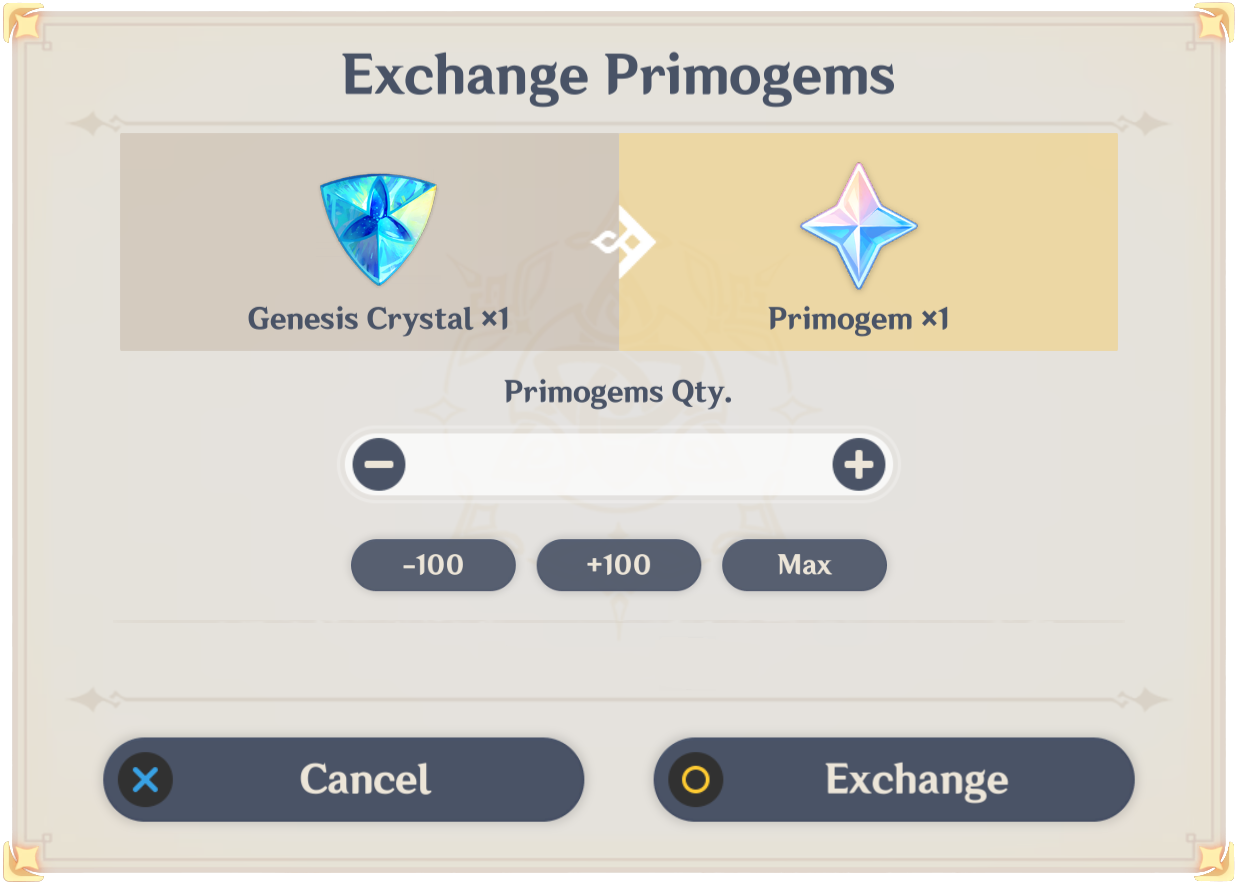
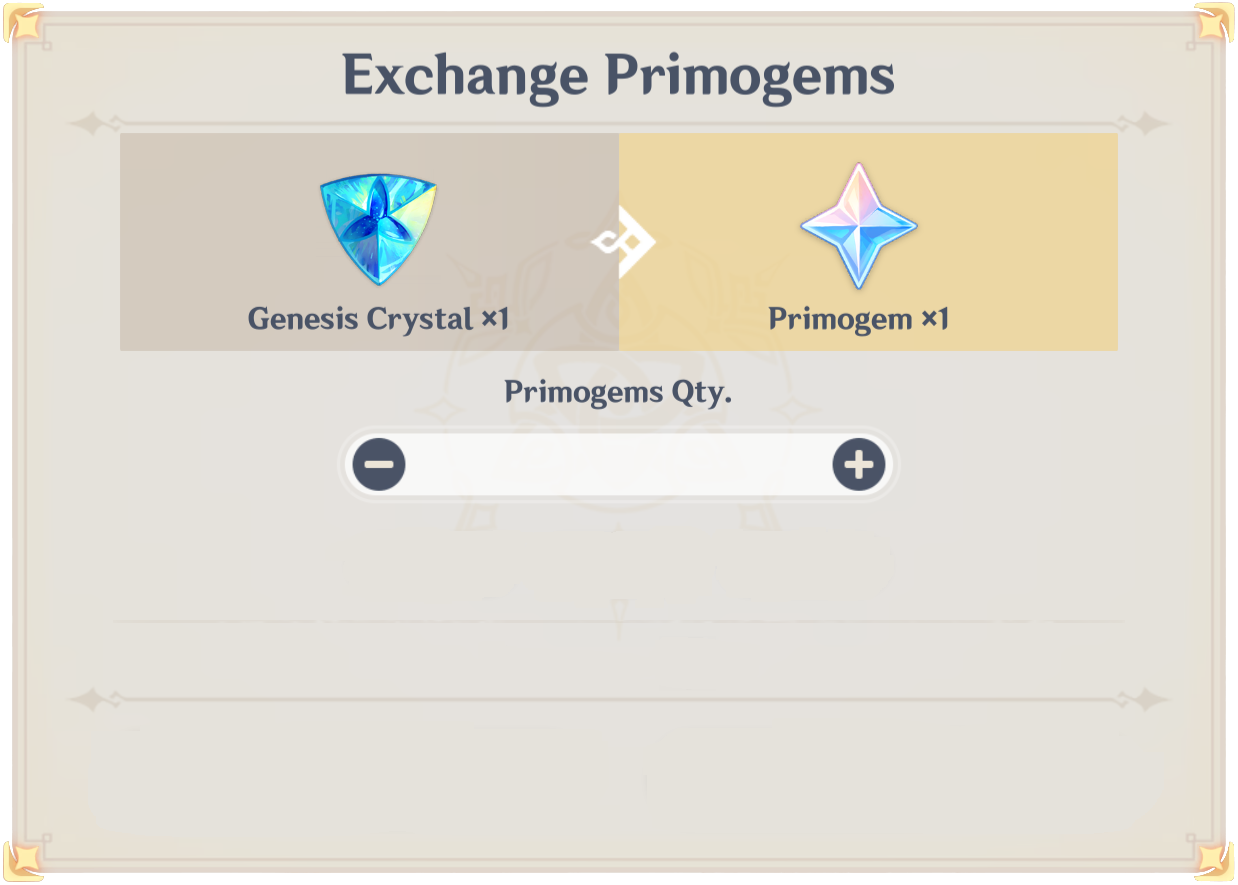
finished add primogem menu... pretty much perfect

Changed region(s): [[0.5218, 0.8237, 0.9208, 0.9458], [0.0614, 0.8237, 0.4911, 0.9458], [0.2763, 0.6102, 0.7367, 0.6712]]

diff --git a/client/src/components/GenshinImpact/GenshinImpact.css b/client/src/components/GenshinImpact/GenshinImpact.css
@@ -1,4 +1,4 @@
-#genshin-wish-page img {
+.gacha-area {
     user-select: none;
 }
 #genshin-wish-page .gacha-area {
@@ -199,6 +199,9 @@
     #fate-count-container {
         margin-left: 0;
     }
+    #genesis-crystal-count-container {
+        margin-left: 0;
+    }
 }
 
 #skip-wish-animation-button {
@@ -212,7 +215,6 @@
     display: flex;
     justify-content: center;
     align-items: center;
-    user-select: none;
     opacity: 1;
     transition: color 0.2s, filter 0.1s, visibility 0s, opacity 0.2s linear;
 }
@@ -287,11 +289,6 @@
         font-size: 4.1vw;
     }
 }
-@media screen and (max-width: 1300px) {
-    .add-primogem-image {
-        width: 95vw !important;
-    }
-}
 #add-primogem-header {
     z-index: 1;
     position: absolute;
@@ -311,13 +308,174 @@
     position: absolute;
     width: 39%;
     height: 9.7%;
-    background: rgba(255, 0, 0, 0.5);
+    display: flex;
+    align-items: center;
+    justify-content: center;
+    color: #ECE5D8;
+    font-size: 36px;
+    padding-left: 3.5%;
+    background-color: #4A5366;
 }
 #add-primogem-cancel-button {
-    bottom: 7%;
-    left: 8.2%;
+    bottom: 7.1%;
+    left: 8.3%;
 }
 #add-primogem-exchange-button {
     bottom: 7%;
-    right: 8.2%;
+    right: 8.3%;
+}
+#cancel-icon, #confirm-icon {
+    position: absolute;
+    left: 2.8%;
+    height: 70%;
+    top: 50%;
+    transform: translateY(-50%);
+}
+#primogem-quantity {
+    position: absolute;
+    top: 49.8%;
+    width: 30%;
+    text-align: center;
+    color: #474F62;
+    font-size: 39px;
+    left: 0;
+    right: 0;
+    margin: auto
+}
+#primogem-quantity::-webkit-outer-spin-button, #primogem-quantity::-webkit-inner-spin-button {
+    -webkit-appearance: none;
+    margin: 0;
+}
+#primogem-quantity {
+    -moz-appearance: textfield;
+}
+#primogem-quantity::placeholder { /* Chrome, Firefox, Opera, Safari 10.1+ */
+    color: #474F62;
+    opacity: 1; /* Firefox */
+}
+  
+#primogem-quantity:-ms-input-placeholder { /* Internet Explorer 10-11 */
+    color: #474F62;
+}
+  
+#primogem-quantity::-ms-input-placeholder { /* Microsoft Edge */
+    color: #474F62;
+}
+#increment-primogem-quantity, #decrement-primogem-quantity {
+    border-radius: 100px;
+    position: absolute;
+    height: 7%;
+    width: 5.2%;
+    top: 49%;
+    transition: 0.2s;
+}
+#increment-primogem-quantity:active, #decrement-primogem-quantity:active, .unclickable-1 {
+    background: rgba(255, 255, 255, 0.521);
+}
+.flash-button {
+    filter: drop-shadow(0px 2px 3px #4a536683);
+    transition: color 0.2s, background 0.2s;
+}
+.flash-button:active {
+    background: #E5E2DB !important;
+    -webkit-animation: 0.15s linear flash;
+    -moz-animation: 0.15s linear flash;
+    -ms-animation: 0.15s linear flash;
+    -o-animation: 0.15s linear flash;
+    animation: 0.15s linear flash;
+}
+.flash-button:after {
+    content: '';
+    position: absolute;
+    border-radius: 100px;
+    top: -2px;
+    left: -2px;
+    right: -2px;
+    bottom: -2px;
+}
+.flash-button:active {
+    filter: drop-shadow(0px 0px 5px #FFECCA);
+}
+#add-primogem-cancel-button:active, #add-primogem-exchange-button:active {
+    color: #4A5366 !important;
+    border: 2px solid #4A5366 !important;
+}
+#add-primogem-cancel-button:active:after, #add-primogem-exchange-button:active:after {
+    background: #ffe5914b !important;
+}
+#minus-100:active, #plus-100:active, #max:active {
+    color: white;
+    border: 2px solid #4a536652 !important;
+}
+#minus-100:active, #plus-100:active, #max:active {
+    background: #E4D0AF !important;
+}
+
+@keyframes flash {
+    0% {
+        color: #4A5366 !important;
+        filter: drop-shadow(0px 2px 3px #4a536683) brightness(180%);
+    }
+}
+
+#decrement-primogem-quantity {
+    left: 28%;
+}
+#increment-primogem-quantity {
+    right: 28%;
+} 
+#minus-100, #plus-100, #max, #add-primogem-cancel-button, #add-primogem-exchange-button {
+    box-sizing: border-box;
+    -moz-box-sizing: border-box;
+    -webkit-box-sizing: border-box;
+}
+#minus-100, #plus-100, #max {
+    position: absolute;
+    border-radius: 100px;
+    bottom: 33.1%;
+    width: 13.4%;
+    height: 6%;
+    display: flex;
+    align-items: center;
+    justify-content: center;
+    color: #ECE5D8;
+    font-size: 28px;
+    background-color: #4A5366;
+}
+#minus-100 {
+    left: 28.3%;
+}
+#max {
+    right: 28.3%;
+}
+#plus-100 {
+    left: 0;
+    right: 0;
+    margin: auto;
+}
+@media screen and (max-width: 1300px) {
+    .add-primogem-image {
+        width: 95vw !important;
+    }
+    #primogem-quantity {
+        font-size: 3.05vw !important;
+    }
+    #add-primogem-cancel-button, #add-primogem-exchange-button {
+        font-size: 2.8vw !important;
+    }
+    #minus-100, #plus-100, #max {
+        font-size: 2.1vw !important;
+    }
+}
+.unclickable-2 {
+    border: 2px solid #D4D2CF !important;
+    color: #D4D2CF !important;
+    background-color: #E5E2DB !important;
+    pointer-events: none;
+}
+.unclickable-2 * {
+    filter: opacity(25%);
+}
+.unclickable-1 {
+    pointer-events: none;
 }

diff --git a/client/src/components/GenshinImpact/GenshinImpact.js b/client/src/components/GenshinImpact/GenshinImpact.js
@@ -18,6 +18,8 @@ import acquaintFate from './assets/items/acquaint-fate.png';
 import addPrimogemButton from './assets/buttons/add-primogem-button.png';
 import skipWishArrow from './assets/buttons/skip-wish-arrow.png';
 import genesisCrystal from './assets/items/genesis-crystal.png';
+import cancelIcon from './assets/buttons/cancel-icon.png';
+import confirmIcon from './assets/buttons/confirm-icon.png';
 
 //modals
 import primogemBlurb from './assets/blurbs/primogem-blurb.png';
@@ -27,7 +29,7 @@ import addPrimogemBlurb from './assets/blurbs/add-primogem-blurb.png';
 import genesisCrystalBlurb from './assets/blurbs/genesis-crystal-blurb.png';
 
 const CURRENT_VERSION = '2.4.1';
-
+const MAX_PRIMOGEMS = 999999999999;
 
 const fadeBannerIn = () => {
   const bannerImageContainer = document.getElementById('banner-image-container');
@@ -96,7 +98,7 @@ const GenshinImpact = (props) => {
   }, [activeBanner, numAcquaintFates, numIntertwinedFates]); // eslint-disable-line react-hooks/exhaustive-deps
 
   /* -------------------------------- primogems ------------------------------- */
-  const [numPrimogems, setNumPrimogems] = useState(160000);
+  const [numPrimogems, setNumPrimogems] = useState(80000);
   const addPrimogems = (n) => {
     setNumPrimogems(prev => prev + n);
   }
@@ -166,11 +168,46 @@ const GenshinImpact = (props) => {
       </div> : null}
     </div>
   )
+  const [primogemQuantity, setPrimogemQuantity] = useState(1);
   const addPrimogemModal = (
     <div className='blurb-container'>
       <img className='blurb-image add-primogem-image' src={addPrimogemBlurb} alt='add primogem modal' />
-      <div id='add-primogem-cancel-button' onClick={()=>closeAddPrimogemModal()} />
-      <div id='add-primogem-exchange-button' onClick={()=>{addPrimogems(1); closeAddPrimogemModal();}} />
+      <input id='primogem-quantity' type='number' min='0' placeholder='0' max={MAX_PRIMOGEMS-numPrimogems} value={primogemQuantity} 
+        onChange={e=>{
+          const newValue = e.target.value;
+          console.log(e.target.value);
+          setPrimogemQuantity(newValue === '' ? 0 : newValue);
+        }}/>
+
+      <div className={`${primogemQuantity <= 0 ? 'unclickable-1' : ''}`} 
+        id='decrement-primogem-quantity' onClick={()=>setPrimogemQuantity(prev=>Math.max(prev-1, 0))} />
+      <div className={`${primogemQuantity >= MAX_PRIMOGEMS-numPrimogems ? 'unclickable-1' : ''}`}
+        id='increment-primogem-quantity' onClick={()=>setPrimogemQuantity(prev=>Math.min(prev+1, MAX_PRIMOGEMS))} />
+
+      <div className={`flash-button ${primogemQuantity <= 0 ? 'unclickable-2' : ''}`} 
+        id='minus-100' onClick={
+          ()=>setPrimogemQuantity(prev=>Math.max(prev-100, 0))}>
+        -100
+      </div>
+      <div className={`flash-button ${primogemQuantity >= MAX_PRIMOGEMS-numPrimogems ? 'unclickable-2' : ''}`}
+        id='plus-100' onClick={
+          ()=>setPrimogemQuantity(prev=>Math.min(prev+100, MAX_PRIMOGEMS))}>
+        +100
+      </div>
+      <div className={`flash-button ${primogemQuantity >= MAX_PRIMOGEMS-numPrimogems ? 'unclickable-2' : ''}`} 
+        id='max' onClick={
+          ()=>setPrimogemQuantity(MAX_PRIMOGEMS-numPrimogems)}>
+        Max
+      </div>
+
+      <div className='flash-button' id='add-primogem-cancel-button' onClick={()=>closeAddPrimogemModal()}>
+        <img id='cancel-icon' src={cancelIcon} alt='cancel' />
+        Cancel
+      </div>
+      <div className={`flash-button ${primogemQuantity <= 0 || numPrimogems >= MAX_PRIMOGEMS ? 'unclickable-2' : ''}`} id='add-primogem-exchange-button' onClick={()=>{addPrimogems(primogemQuantity); closeAddPrimogemModal();}}>
+        <img id='confirm-icon' src={confirmIcon} alt='confirm' />
+        Exchange
+      </div>
     </div>
   );
   const addPrimogemHeader = (
@@ -218,6 +255,7 @@ const GenshinImpact = (props) => {
     setInfoModalIsOpen(false);
   }
   const closeAddPrimogemModal = () => {
+    setPrimogemQuantity(1);
     hideAddPrimogemHeader();
     setAddPrimogemModalIsOpen(false);
   };
